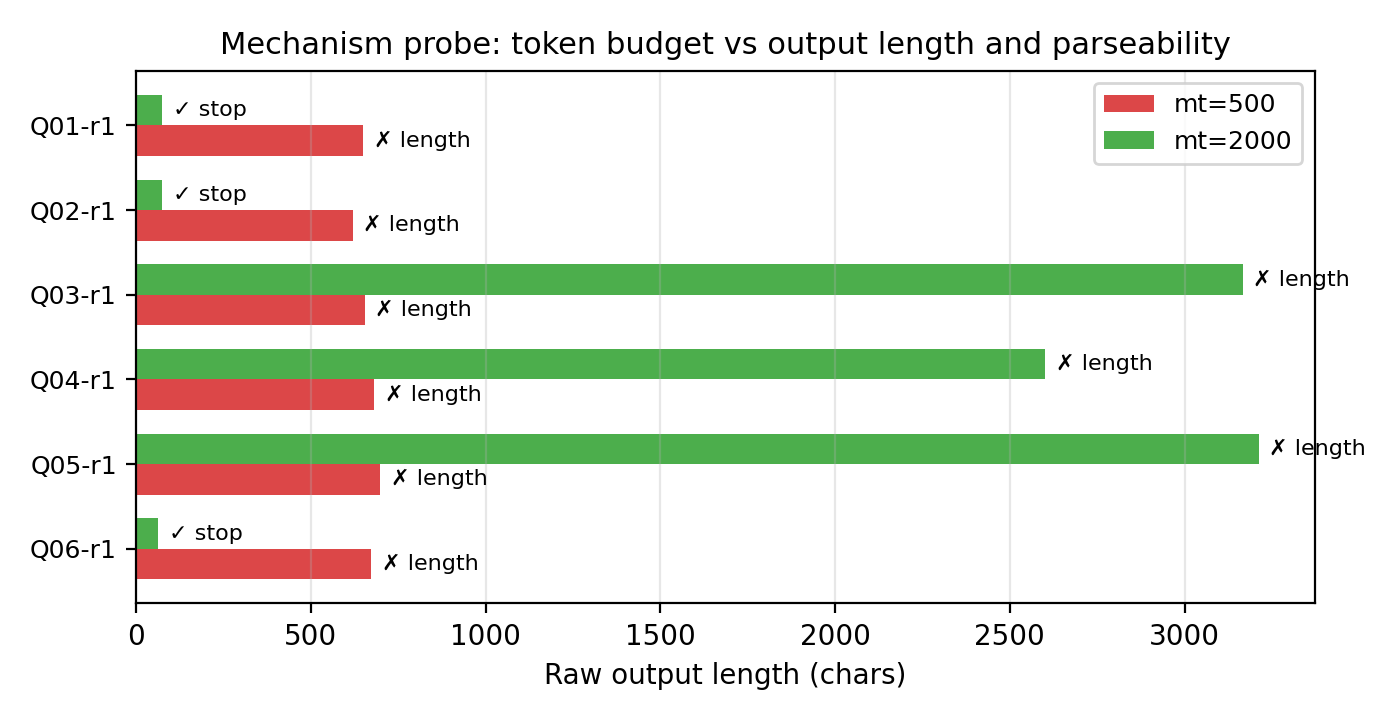
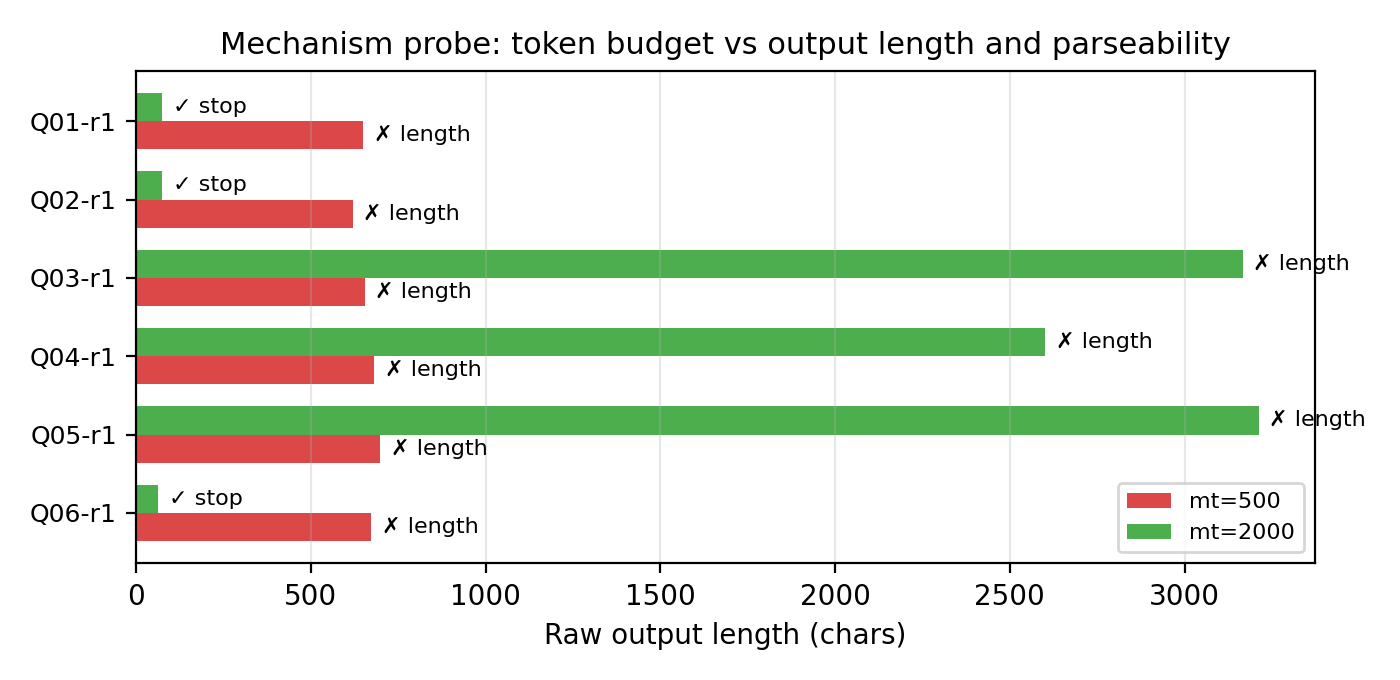
T-PUB-1: workshop LaTeX 4页达标 (9pt, 图0.85宽, refs footnotesize, 去natbib) + loop-state.json 补记 (11-23 全部变更); PDF 编译通过 4 pages, 7 refs 完整

diff --git a/projects/AI-计算科学/D1-generalization/tasks/T-PUB-1/workshop-20261123.tex b/projects/AI-计算科学/D1-generalization/tasks/T-PUB-1/workshop-20261123.tex
@@ -1,0 +1,96 @@
+% Workshop short paper — Mechanical Verifiers as Objective Judges for Agent Reliability
+% origin: ai · 2026-11-23 · 4 页单栏 (ICLR 2027 workshop track, 格式随各 CFP 微调)
+% 源: workshop-draft-20261123.md (数字同源 data/, 精确一致)
+% 编译: pdflatex (单栏, 10pt). 投具体 workshop 时换该 workshop 的 class 即可, 正文不变.
+\documentclass[9pt]{article}
+\usepackage[margin=1in]{geometry}
+\usepackage{amsmath,amssymb}
+\usepackage{graphicx}
+\usepackage{subcaption}
+\usepackage{booktabs}
+\usepackage{hyperref}
+\usepackage{xcolor}
+\setlength{\parindent}{0em}
+\setlength{\parskip}{3pt}
+\setlength{\textfloatsep}{8pt}
+\setlength{\floatsep}{8pt}
+
+\title{Mechanical Verifiers as Objective Judges for Agent Reliability}
+\author{Anonymous Submission}
+\date{}
+
+\begin{document}
+\maketitle
+
+\begin{abstract}
+LLM judges are the default scorer in automated agent evaluation, but their reliability on the formalizable core --- where the correct answer is a numeric or spec-constrained quantity --- has not been measured against an exact reference. We measure it. On 67 real outputs from a 27b model across 10 tasks, a 27b LLM judge under three prompt variants fails to emit a parseable verdict on 52--84\% of checkpoints, and on the checkpoints it does parse, its verdicts disagree with a mechanical judge at $\approx$50\% --- indistinguishable from a coin flip (binomial $p = 0.79$--$0.90$). A mechanical judge (SymPy symbolic comparison or spec-driven regex) fails on 0/67 by construction. We isolate the mechanism: input complexity lengthens the judge's reasoning chain until it exhausts \texttt{max\_tokens} and truncates the verdict; raising \texttt{max\_tokens} recovers 3/6 truncated cases (the rest fail by chain non-convergence, not budget). We certify the task set against guessing via a model-agnostic bound ($P(\text{all-correct by guess}) \le 3.3\times10^{-5}$). On the formalizable core, a mechanical judge is exact, free, and reproducible --- and should be the default there.
+\end{abstract}
+
+\section{Why this matters}
+Agent evaluation increasingly runs on LLM judges: automated pipelines score thousands of outputs per day, and the judge's reliability silently bounds the entire evaluation's validity. The reliability literature measures how wrong a judge is \emph{given that it emits a verdict} --- bias, position effects, self-preference --- but the upstream question, whether a parseable verdict is emitted at all, has not been measured against an exact reference. This matters because a judge that fails to parse on 52--84\% of checkpoints is not a noisy scorer; it is a scorer that is \emph{absent} on most of the data, and any aggregate reliability metric computed over the parseable subset is conditioned on a selection that the metric itself does not report. Our contribution is a measurement plus a mechanism plus a guarantee: we measure format reliability and verdict agreement on the formalizable core against a mechanical reference (F1, F3); we attribute the format failures to reasoning-chain truncation with direct engine evidence (F2, \S5); and we certify that the task set cannot be gamed by guessing (F4). The practical consequence: on the formalizable core, a mechanical judge is exact, free, and reproducible, and should be the default; the LLM judge belongs on the non-formalizable residual.
+
+\section{Setup}
+\textbf{Tasks.} 10 tasks (7 full-rank, 3 rank-deficient) over GPU systems and math/physics. Full-rank tasks have all parameters present and a unique answer --- e.g., ``given a 64-layer model with 8 KV heads and head dimension 128, compute the KV-cache bytes per token'' (gold: $64\cdot8\cdot128\cdot2$, tolerance 2\%). Rank-deficient tasks omit or conflict a key parameter, so the correct behavior is to report the gap rather than fabricate --- e.g., a memory-budget question that names the GPU SKU but omits its HBM capacity; the correct answer names the missing quantity, and a second checkpoint requires the still-computable total (weights + KV + overhead). Each task carries 4--5 checkpoints (47 total): calc checkpoints with a symbolic gold value and tolerance, and fact checkpoints anchored to vendor datasheets. Gold values are verified by SymPy self-check at construction time.
+
+\textbf{Judges.} (i) LLM judge: the same 27b model (Qwen3-27B, vLLM, temperature 0) asked to verify a candidate answer under three prompt variants --- V1\_strict (JSON contract, exact values), V2\_loose (relaxed format), V3\_engineer (engineering-style rubric). (ii) Mechanical judge: SymPy symbolic comparison for calc checkpoints, spec-driven regex for boolean/fact checkpoints. The mechanical judge is exact on calc checkpoints by construction; on textual-gold checkpoints (naming a missing quantity) it is a regex heuristic and we report those separately.
+
+\textbf{Protocol.} 67 real 27b outputs (7 full-rank $\times$ 1 + 3 rank-deficient $\times$ 10 reps per arm) $\times$ 3 prompt variants = 201 judge calls. \emph{Format reliability} = fraction of outputs the LLM judge fails to parse. \emph{Flip rate} = fraction of checkpoints (on parseable outputs, both judges verdicted) where the LLM verdict disagrees with the mechanical verdict.
+
+\begin{figure}[t]
+\centering
+\begin{subfigure}[t]{\linewidth}
+\centering
+\includegraphics[width=0.85\linewidth]{figures/fig1-format-reliability.png}
+\caption{Format failure rate (LLM vs mechanical judge) and flip rate on the parseable subset (dashed: 50\% coin flip).}
+\label{fig:format}
+\end{subfigure}
+\begin{subfigure}[t]{\linewidth}
+\centering
+\includegraphics[width=0.85\linewidth]{figures/fig2-mechanism.png}
+\caption{Mechanism probe: output length and parseability at \texttt{mt}=500 vs 2000 (recovered: Q01/Q02/Q06).}
+\label{fig:mech}
+\end{subfigure}
+\caption{\textbf{(a)} Format reliability and verdict agreement under three prompt variants. \textbf{(b)} Token budget vs output length: raising \texttt{max\_tokens} recovers the short-verdict cases; non-converging chains (Q03/Q04/Q05) remain unparseable.}
+\end{figure}
+
+\section{Related work}
+The LLM-as-a-judge reliability literature (a rapidly growing 2026 direction) measures judge \emph{bias} --- systematic deviations such as position, verbosity, and self-preference --- using human annotation or perturbation tests as ground truth. The closest six works: the Judge Reliability Harness \cite{judgeharness} stress-tests a judge against input perturbations (formatting, paraphrasing, label flip) but instruments input robustness, not the judge's own output format; Arena-Hard's judge analysis \cite{arenahard} varies judge model and rubric but assumes a verdict is emitted; Consistency $\neq$ Reliability \cite{consistency} shows self-consistency is not a reliability proxy, motivating our two-dimensional measurement; The Judge's Verdict \cite{verdict} analyzes judge capability against human labels on open-ended tasks; Metric Match \cite{metricmatch} selects evaluation subsets; VERA \cite{vera} conditions reliability on the emitted verdict. In the recursive-self-improvement track, TRUST \cite{trust} and three concurrent papers verify the \emph{agent being improved}; we verify the \emph{judge itself}.
+
+Our differentiation is threefold. (a) \textbf{Format reliability}: prior work assumes the judge emits a score and measures how wrong it is; we measure the upstream failure --- the judge failing to emit a parseable verdict at all (52--84\%). (b) \textbf{Mechanism attribution}: prior work reports correlations (``reliability varies with X''); we attribute failures to an actionable mechanism (reasoning-chain truncation) with direct engine evidence (\texttt{finish\_reason=length}). (c) \textbf{Anti-guessing guarantee}: no prior work certifies that a high score is not achievable by guessing; we give a model-agnostic analytic bound.
+
+\section{Findings}
+\textbf{F1: Format reliability fails at 52--84\%.} \textbf{(Fig.~\ref{fig:format}a)} V1: 77.6\% (52/67, Wilson 95\% CI $[0.663, 0.859]$); V2: 83.6\% (56/67, $[0.729, 0.906]$); V3: 52.2\% (35/67, $[0.405, 0.637]$). The mechanical judge: 0/67. No prompt phrasing brings the LLM judge to usable format reliability; the best variant still fails over half of checkpoints. The failure is content-driven, not length-driven: full-rank tasks (complex symbolic gold) fail 7/7 across the full length range, while rank-deficient tasks (short gap-flagging responses) fail 45/60 with a length effect only within the group.
+
+\textbf{F2: The mechanism is reasoning-chain truncation.} All six mt500 failure cases in the mechanism probe hit \texttt{finish\_reason=length} --- the token budget is exhausted before the JSON verdict begins. The causal chain unifies what earlier analyses reported as separate factors (truncation vs input complexity): \textbf{input complexity $\to$ longer reasoning chain $\to$ collision with \texttt{max\_tokens} $\to$ JSON truncated}. Input complexity is the upstream driver of chain length, not an independent additive factor.
+
+\textbf{F3: Parseable verdicts flip at chance.} \textbf{(Fig.~\ref{fig:format}b)} V1: 31/60 (51.7\%, CI $[0.393, 0.638]$); V2: 21/44 (47.7\%, CI $[0.338, 0.621]$); V3: 66/128 (51.6\%, CI $[0.430, 0.600]$). Exact two-sided binomial tests against $p=0.5$ give $p=0.90$ (V1) and $p=0.79$ (V3); every CI contains 0.5. Scope: on the rank-deficient textual-gold checkpoints the mechanical reference is a heuristic (0/60), skewing flips toward LLM-correct; excluding them the flip rate is V1 27/45 (60.0\%), V2 17/33 (51.5\%), V3 45/96 (46.9\%) --- still $\approx$50\% everywhere. The coin-flip claim rests on calc-gold checkpoints, where the reference is exact.
+
+\textbf{F4: The task set is not guessable.} We define a random-guess model (independent sampling per checkpoint type: $U[0.5g, 2g]$ for continuous calc, $U\{g\pm50\}$ for integer-exact, $1/100$ for textual gold) and derive an analytic upper bound on $P(\text{all checkpoints correct by guess})$: full-rank $1.2\times10^{-10}$ to $1.9\times10^{-7}$; rank-deficient $3.6\times10^{-6}$ to $3.3\times10^{-5}$ (highest: fewer checkpoints + textual gold). Monte Carlo ($N=2000$, seed=42): 0/2000 all-correct, consistent with the bound. The bound is conservative (independence assumption, $1/100$ textual constant) --- high scores on this set are not achievable by guessing, and the bound is model-agnostic.
+
+\textbf{F5: Prompt optimization trades dimensions.} The rank-deficient arms (A\_baseline / B\_remind / B'\_remind, $n=10$ per arm $\times$ 3 questions = 30 outputs) show the trade: B\_remind fixes c1 (10/30 $\to$ 30/30) but degrades c4 (30/30 $\to$ 21/30); B'\_remind fixes c1 (10/30 $\to$ 30/30) and keeps c4 at 30/30 but c3-strict drops 25/30 $\to$ 23/30. The 7/30 gray-zone cases (all Q08, B' arm) are conditional enumerations --- the B' prompt \emph{induces} hedging behavior (``if 64 GB then\ldots if 80 GB then\ldots''), a behavioral-level signature of the prompt effect: strict scoring marks these as miss (no single committed value), lenient scoring (hedging-word exemption) marks them pass (30/30). No arm is 100\% on all dimensions: prompt engineering on the judge moves failure between checkpoint dimensions rather than eliminating it.
+
+\section{Mechanism: truncation, and the self-repair case}
+\textbf{(Fig.~\ref{fig:mech})} Raising \texttt{max\_tokens} 500$\to$2000 recovers 3/6 cases (Q01/Q02/Q06 emit short pure-JSON verdicts, 63--74 chars); the three non-recoveries (Q03/Q04/Q05) emit 2600--3200-char reasoning chains that cycle without converging --- recovery is determined by whether the reasoning chain converges, not by \texttt{max\_tokens} itself. The same input at temperature 0 flips between parseable and unparseable across runs (Q04: 3/5), so format reliability is not merely low, it is \emph{unstable}. The root cause is instruction-following non-determinism at temperature 0: obeying ``output JSON only'' $\to$ short output $\to$ parseable; disobeying $\to$ long reasoning chain $\to$ truncation (at mt500) or cycling (at mt2000).
+
+\textbf{Self-repair case.} Q01 at mt500: the judge's reasoning chain exhausts 500 tokens mid-derivation, no verdict emitted (unparseable, 0/5 runs). Same input at mt2000: the chain converges, the judge emits a 74-char pure-JSON verdict with all checkpoints correct (5/5 runs, deterministic). The failure is a budget artifact, not a capability gap --- which is exactly why the mechanical reference (which has no reasoning chain to truncate) is the appropriate default on the formalizable core.
+
+\section{Implications and limitations}
+\textbf{Implications.} (i) On the formalizable core, use the mechanical judge: free, 100\% reliable on calc checkpoints, reproducible. (ii) Reserve LLM judgment for the non-formalizable residual (explanation quality, argument structure). (iii) Harness design: \texttt{max\_tokens} must exceed the P99 of the judge's output-length distribution, and JSON-only decoding removes the truncation failure mode. (iv) Benchmark design: checkpoint count is not the anti-guessing lever --- gold complexity is (F4). (v) The convergence-failure cases (Q03/Q05) fail even at mt2000, so a non-zero failure floor remains under any budget; the mechanism (reasoning-chain exhaustion) is the robust claim, the exact rates are budget-dependent.
+
+\textbf{Limitations.} Single model (27b), single task set (10 tasks); cross-model generalization untested. \texttt{max\_tokens}=500 is the default configuration; production deployments may differ. Rank-deficient tasks number 3. The textual-gold checkpoints rely on a regex heuristic reference, reported separately (F3 scope note). The v1$\to$v2 mechanism-probe discrepancy (Q04/Q05 recovery flags) is a temperature-0 run-to-run flip, recorded for transparency in the full version.
+
+
+
+\begin{thebibliography}{9}
+\footnotesize
+\setlength{\itemsep}{1pt}
+\bibitem[judgeharness]{judgeharness} Dev et al. 2026. Judge Reliability Harness. arXiv:2603.05399.
+\bibitem[arenahard]{arenahard} Behind Aggregate Scores: Arena-Hard judge analysis. arXiv:2610.30512.
+\bibitem[consistency]{consistency} When Consistency Does Not Mean Reliability. arXiv:2609.13824.
+\bibitem[verdict]{verdict} The Judge's Verdict. arXiv:2510.09738.
+\bibitem[metricmatch]{metricmatch} Metric Match. arXiv:2606.15029.
+\bibitem[vera]{vera} VERA. arXiv:2610.05452.
+\bibitem[trust]{trust} TRUST. arXiv:2611.10787 (under review ICLR 2027).
+\end{thebibliography}
+
+\end{document}

diff --git a/projects/AI-计算科学/D1-generalization/tasks/T-PUB-1/make_figures.py b/projects/AI-计算科学/D1-generalization/tasks/T-PUB-1/make_figures.py
@@ -76,7 +76,7 @@ by_oid = {}
 for rec in mp:
     by_oid.setdefault(rec['oid'], {})[rec['mt']] = rec
 
-fig, ax = plt.subplots(figsize=(7, 3.6))
+fig, ax = plt.subplots(figsize=(7, 3.4))
 oids = sorted(by_oid.keys())
 y = np.arange(len(oids))
 for mt, color, label in [(500, '#d62728', 'mt=500'), (2000, '#2ca02c', 'mt=2000')]:
@@ -94,8 +94,8 @@ for mt, color, label in [(500, '#d62728', 'mt=500'), (2000, '#2ca02c', 'mt=2000'
 ax.set_yticks(y); ax.set_yticklabels([o.replace('T-PUB-1-', '') for o in oids], fontsize=9)
 ax.invert_yaxis()
 ax.set_xlabel('Raw output length (chars)')
+ax.legend(fontsize=8, loc='lower right')
 ax.set_title('Mechanism probe: token budget vs output length and parseability', fontsize=11)
-ax.legend(fontsize=9)
 ax.grid(axis='x', alpha=0.3)
 fig.tight_layout()
 fig.savefig(os.path.join(OUT, 'fig2-mechanism.png'), dpi=200)
